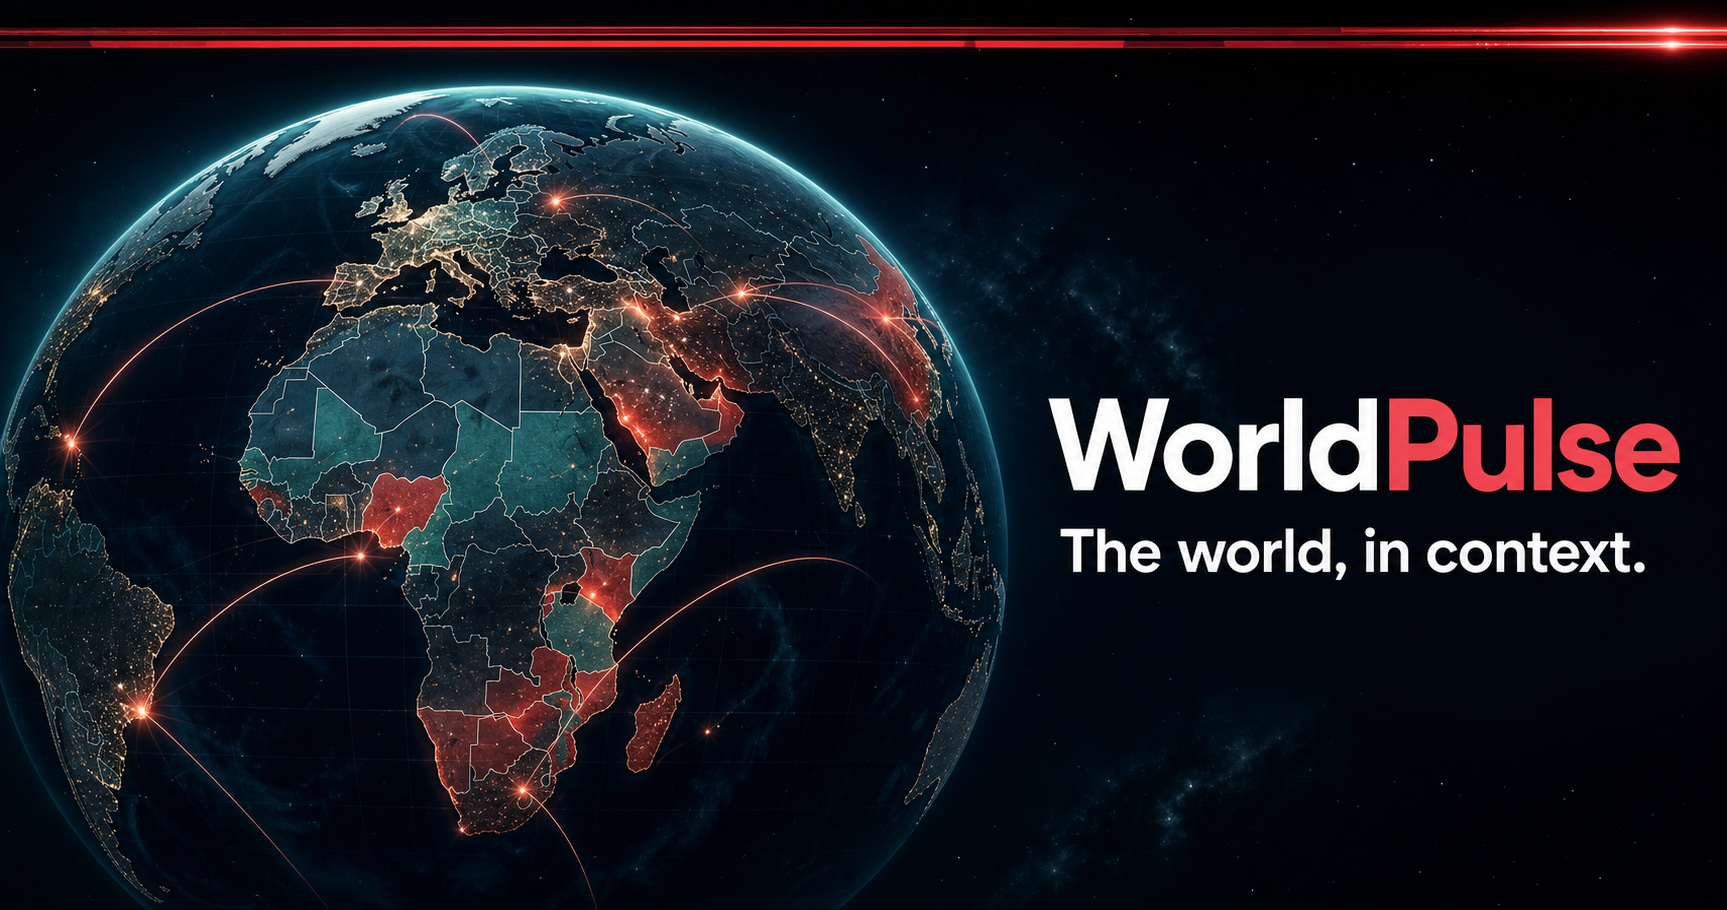
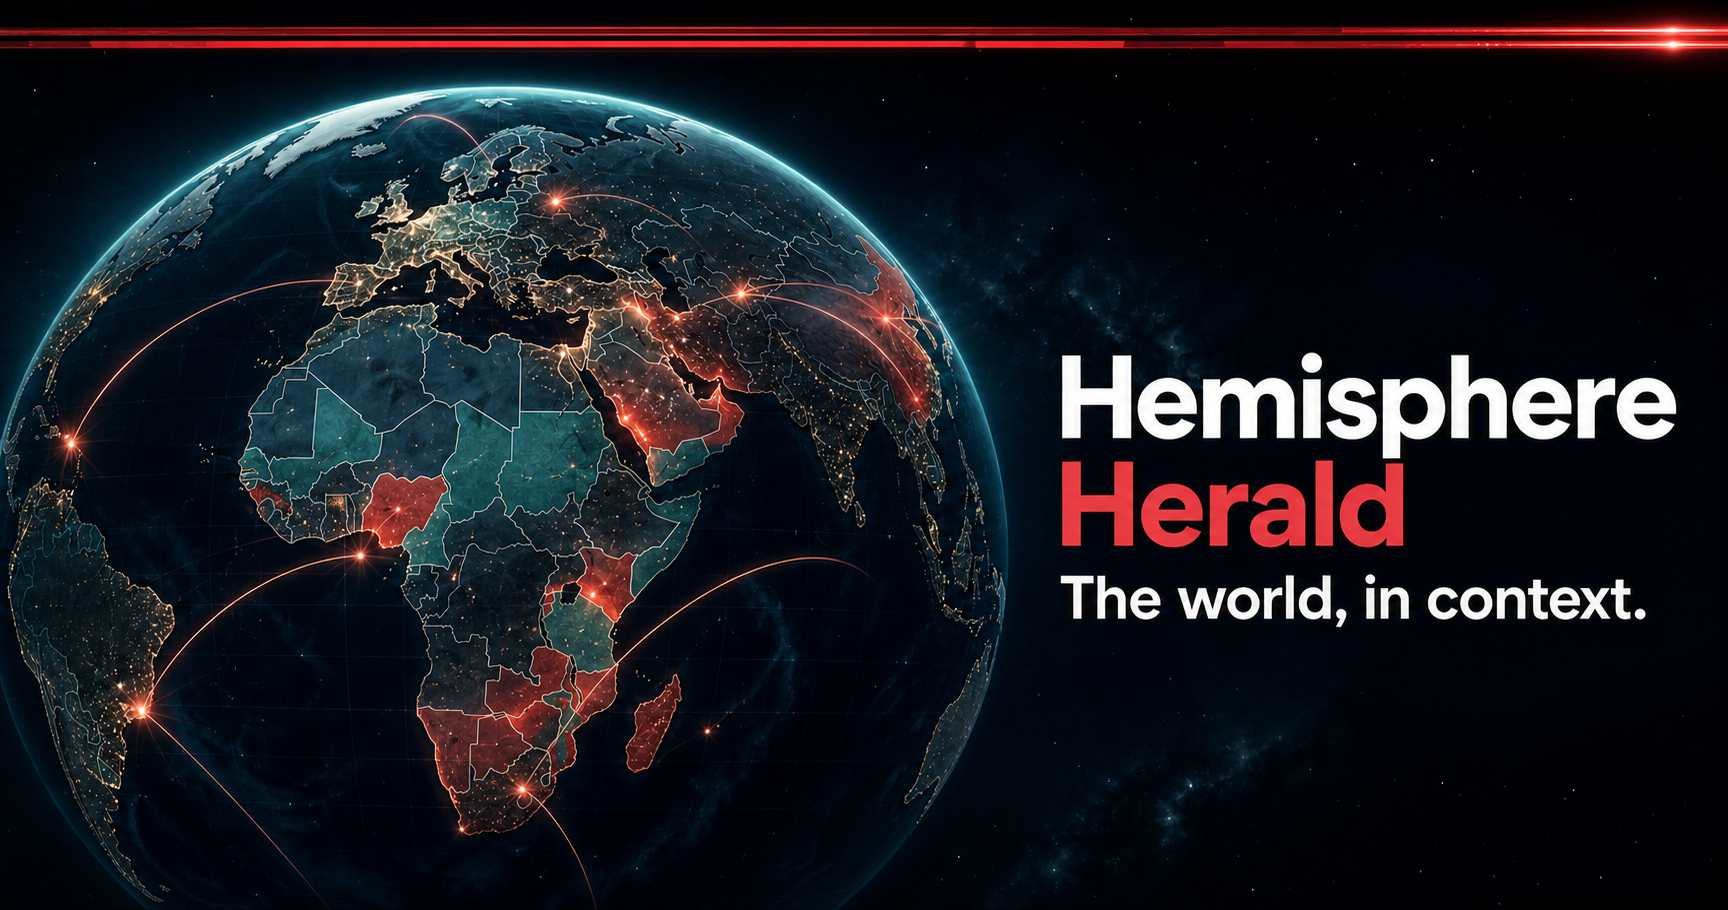
Rename WorldPulse to Hemisphere Herald

diff --git a/components/world-pulse-app.tsx b/components/world-pulse-app.tsx
@@ -516,7 +516,7 @@ function MethodologyModal({ onClose }: { onClose: () => void }) {
         <div className="flex items-start justify-between gap-4">
           <div>
             <p className="font-mono text-[10px] uppercase tracking-[0.2em] text-[#73e2cc]">
-              How WorldPulse works
+              How Hemisphere Herald works
             </p>
             <h2
               id="methodology-title"
@@ -535,7 +535,7 @@ function MethodologyModal({ onClose }: { onClose: () => void }) {
           </button>
         </div>
         <p className="mt-5 text-sm leading-6 text-[#b5bfcd]">
-          WorldPulse groups public headline metadata into developing events and
+          Hemisphere Herald groups public headline metadata into developing events and
           estimates their relative impact on a 0–100 scale. The score is an
           orientation tool, not an objective fact or a judgment about human
           worth.
@@ -563,7 +563,7 @@ function MethodologyModal({ onClose }: { onClose: () => void }) {
           <p>
             Reports enter a country feed only when that country is explicitly
             identified in available headline metadata. A country with no
-            current verified match stays neutral; WorldPulse does not invent a
+            current verified match stays neutral; Hemisphere Herald does not invent a
             story to fill the map. Coverage can still be uneven where
             accessible digital reporting is limited.
           </p>
@@ -1060,7 +1060,7 @@ function LiveNewsDirectory() {
             No major newsrooms are live right now
           </p>
           <p className="mt-2 text-xs leading-5 text-[#8996a8]">
-            WorldPulse will check again automatically, or you can refresh now.
+            Hemisphere Herald will check again automatically, or you can refresh now.
           </p>
           <button
             type="button"
@@ -1463,7 +1463,7 @@ function WorldLoadingScreen({
           </div>
           <div>
             <p className="font-mono text-[9px] uppercase tracking-[0.28em] text-[#73e2cc]">
-              WorldPulse
+              Hemisphere Herald
             </p>
             <h1 className="mt-3 text-3xl font-semibold tracking-[-0.05em] text-white sm:text-4xl">
               Preparing the live world
@@ -1531,13 +1531,13 @@ function WorldStartupError() {
     >
       <section className="max-w-lg rounded-2xl border border-[#5b3641] bg-[#0b111c] p-8 shadow-2xl">
         <p className="font-mono text-[9px] uppercase tracking-[0.24em] text-[#d87582]">
-          WorldPulse
+          Hemisphere Herald
         </p>
         <h1 className="mt-3 text-2xl font-semibold text-white">
           The live world feed is unavailable
         </h1>
         <p className="mt-3 text-sm leading-6 text-[#9aa8ba]">
-          WorldPulse could not reach or prepare the current server feed. Reload
+          Hemisphere Herald could not reach or prepare the current server feed. Reload
           to reconnect.
         </p>
         <button
@@ -2139,7 +2139,7 @@ export function WorldPulseApp({
           </div>
           <div>
             <div className="text-sm font-semibold tracking-[-0.02em]">
-              WorldPulse
+              Hemisphere Herald
             </div>
             <div className="hidden font-mono text-[8px] uppercase tracking-[0.19em] text-[#7f8da1] sm:block">
               News around the world

diff --git a/lib/world-snapshot.ts b/lib/world-snapshot.ts
@@ -191,7 +191,7 @@ export function prepareWorldSnapshotFeeds(
       scope: "country",
       generatedAt: countryPayload.generatedAt,
       refreshAfterSeconds: 300,
-      provider: "WorldPulse",
+      provider: "Hemisphere Herald",
       // The globe renders at most twenty country events. Bounding the input
       // prevents thousands of extra similarity comparisons on every poll.
       articles: countryPayload.articles.slice(0, MAX_PREPARED_COUNTRY_EVENTS),
@@ -201,7 +201,7 @@ export function prepareWorldSnapshotFeeds(
       // publishing this record, so the browser should not filter it again.
       events: buildLiveEvents(livePayload, country),
       updatedAt: countryPayload.generatedAt,
-      provider: "WorldPulse",
+      provider: "Hemisphere Herald",
       loading: false,
       error: null,
     };
@@ -295,7 +295,7 @@ export function prepareCompleteWorldSnapshotFromFeeds(
         ? mergeEventFeeds(latestLocalEvents, matchingGlobalEvents)
         : latestLocalEvents,
       updatedAt: localFeed?.updatedAt ?? generatedAt,
-      provider: "WorldPulse \u00b7 minute world state",
+      provider: "Hemisphere Herald \u00b7 minute world state",
       loading: false,
       error: null,
     };

diff --git a/components/world-map.tsx b/components/world-map.tsx
@@ -870,8 +870,8 @@ export function WorldMap({
           viewer.destroy();
           return;
         }
-        const markers = new runtime.CustomDataSource("WorldPulse markers");
-        const arcs = new runtime.CustomDataSource("WorldPulse connections");
+        const markers = new runtime.CustomDataSource("Hemisphere Herald markers");
+        const arcs = new runtime.CustomDataSource("Hemisphere Herald connections");
         await Promise.all([
           viewer.dataSources.add(countryDataSource),
           viewer.dataSources.add(markers),
@@ -1211,7 +1211,7 @@ export function WorldMap({
             <div className="text-3xl text-[#d36b7b]">!</div>
             <p className="mt-3 text-sm text-[#d4dbe5]">{mapError}</p>
             <p className="mt-2 text-xs text-[#8290a3]">
-              Try enabling hardware acceleration, then reload WorldPulse.
+              Try enabling hardware acceleration, then reload Hemisphere Herald.
             </p>
           </div>
         </div>

diff --git a/worker/live-news.ts b/worker/live-news.ts
@@ -1081,7 +1081,7 @@ async function fetchProvider(
       headers: {
         Accept:
           "application/rss+xml, application/json;q=0.9, application/xml;q=0.8, text/xml;q=0.7",
-        "User-Agent": "WorldPulse/1.1 (live news metadata reader)",
+        "User-Agent": "HemisphereHerald/1.1 (live news metadata reader)",
       },
       signal: AbortSignal.timeout(provider.timeoutMs),
     });
@@ -1424,7 +1424,7 @@ export async function handleLiveNews(
     provider:
       scope === "event"
         ? `Expanded topic search · ${successful.length} feeds`
-        : `WorldPulse live index · ${successful.length} feeds`,
+        : `Hemisphere Herald live index · ${successful.length} feeds`,
     providers: diagnostics,
     degraded: successful.length < providers.length,
     articles: mergeArticles(

diff --git a/server/oracle-live-server.ts b/server/oracle-live-server.ts
@@ -103,7 +103,7 @@ function emptyGlobalFeed(): LiveNewsPayload {
     scope: "global",
     generatedAt: "1970-01-01T00:00:00.000Z",
     refreshAfterSeconds: 60,
-    provider: "WorldPulse live server is starting",
+    provider: "Hemisphere Herald live server is starting",
     degraded: true,
     articles: [],
   };
@@ -126,7 +126,7 @@ export function buildWorldPayload(
     scope: "world-live",
     generatedAt: state.updatedAt,
     refreshAfterSeconds: 60,
-    provider: "WorldPulse continuous Oracle country index",
+    provider: "Hemisphere Herald continuous Oracle country index",
     global: state.global ?? emptyGlobalFeed(),
     countries: countryNames.map((countryName) => {
       const country = state.countries[countryName] ?? emptyCountry(countryName);

diff --git a/components/world-diagnostics.tsx b/components/world-diagnostics.tsx
@@ -50,7 +50,7 @@ export function WorldDiagnostics() {
       <div className="mx-auto max-w-6xl">
         <header className="flex flex-wrap items-start justify-between gap-4 border-b border-[#283447] pb-6">
           <div>
-            <Link href="/" className="font-mono text-xs uppercase tracking-[0.18em] text-[#73e2cc]">WorldPulse</Link>
+            <Link href="/" className="font-mono text-xs uppercase tracking-[0.18em] text-[#73e2cc]">Hemisphere Herald</Link>
             <h1 className="mt-3 text-3xl font-semibold tracking-[-0.04em]">World feed health</h1>
             <p className="mt-2 max-w-2xl text-sm leading-6 text-[#9aa5b5]">Live-index freshness, country coverage, and upstream provider status. This view refreshes once a minute.</p>
           </div>

diff --git a/components/world-map-maplibre.tsx b/components/world-map-maplibre.tsx
@@ -326,7 +326,7 @@ function emptyFeatureCollection() {
 function createMapStyle(): StyleSpecification {
   return {
     version: 8,
-    name: "WorldPulse satellite globe",
+    name: "Hemisphere Herald satellite globe",
     sources: {
       satellite: {
         type: "raster",
@@ -1050,7 +1050,7 @@ export function WorldMap({
             <div className="text-3xl text-[#d36b7b]">!</div>
             <p className="mt-3 text-sm text-[#d4dbe5]">{mapError}</p>
             <p className="mt-2 text-xs text-[#8290a3]">
-              Try enabling hardware acceleration, then reload WorldPulse.
+              Try enabling hardware acceleration, then reload Hemisphere Herald.
             </p>
           </div>
         </div>

diff --git a/app/layout.tsx b/app/layout.tsx
@@ -28,7 +28,7 @@ export async function generateMetadata(): Promise<Metadata> {
         ? "http"
         : "https";
   const origin = `${protocol}://${host}`;
-  const title = "WorldPulse — Global news, mapped";
+  const title = "Hemisphere Herald — Global news, mapped";
   const description =
     "An interactive world-news tracker mapping current reporting across every country and territory.";
   return {

diff --git a/app/error.tsx b/app/error.tsx
@@ -8,7 +8,7 @@ export default function ErrorPage({ reset }: { reset: () => void }) {
           Signal interrupted
         </p>
         <h1 className="mt-3 text-2xl font-semibold">
-          WorldPulse could not load.
+          Hemisphere Herald could not load.
         </h1>
         <p className="mt-2 text-sm text-[#9aa5b5]">
           Check your connection and try the news desk again.

diff --git a/tests/worker-live-world.test.ts b/tests/worker-live-world.test.ts
@@ -35,7 +35,7 @@ describe("live world delivery", () => {
       scope: "world-live",
       generatedAt: "2026-08-22T00:00:00.000Z",
       refreshAfterSeconds: 60,
-      provider: "WorldPulse continuous Oracle country index",
+      provider: "Hemisphere Herald continuous Oracle country index",
       global: { scope: "global", articles: [] },
       countries: [],
     };

diff --git a/worker/live-video.ts b/worker/live-video.ts
@@ -401,7 +401,7 @@ function youtubeRequestInit() {
     headers: {
       "Accept-Language": "en-US,en;q=0.9",
       "User-Agent":
-        "Mozilla/5.0 (compatible; WorldPulse/1.3; live coverage index)",
+        "Mozilla/5.0 (compatible; HemisphereHerald/1.3; live coverage index)",
     },
     signal: AbortSignal.timeout(8_000),
   };

diff --git a/tests/world-pulse-app.test.tsx b/tests/world-pulse-app.test.tsx
@@ -104,7 +104,7 @@ afterEach(() => {
   vi.unstubAllGlobals();
 });
 
-describe("WorldPulse live country delivery", () => {
+describe("Hemisphere Herald live country delivery", () => {
   it("keeps non-live embeds interactive without network access", () => {
     const fetchMock = vi.fn();
     vi.stubGlobal("fetch", fetchMock);
